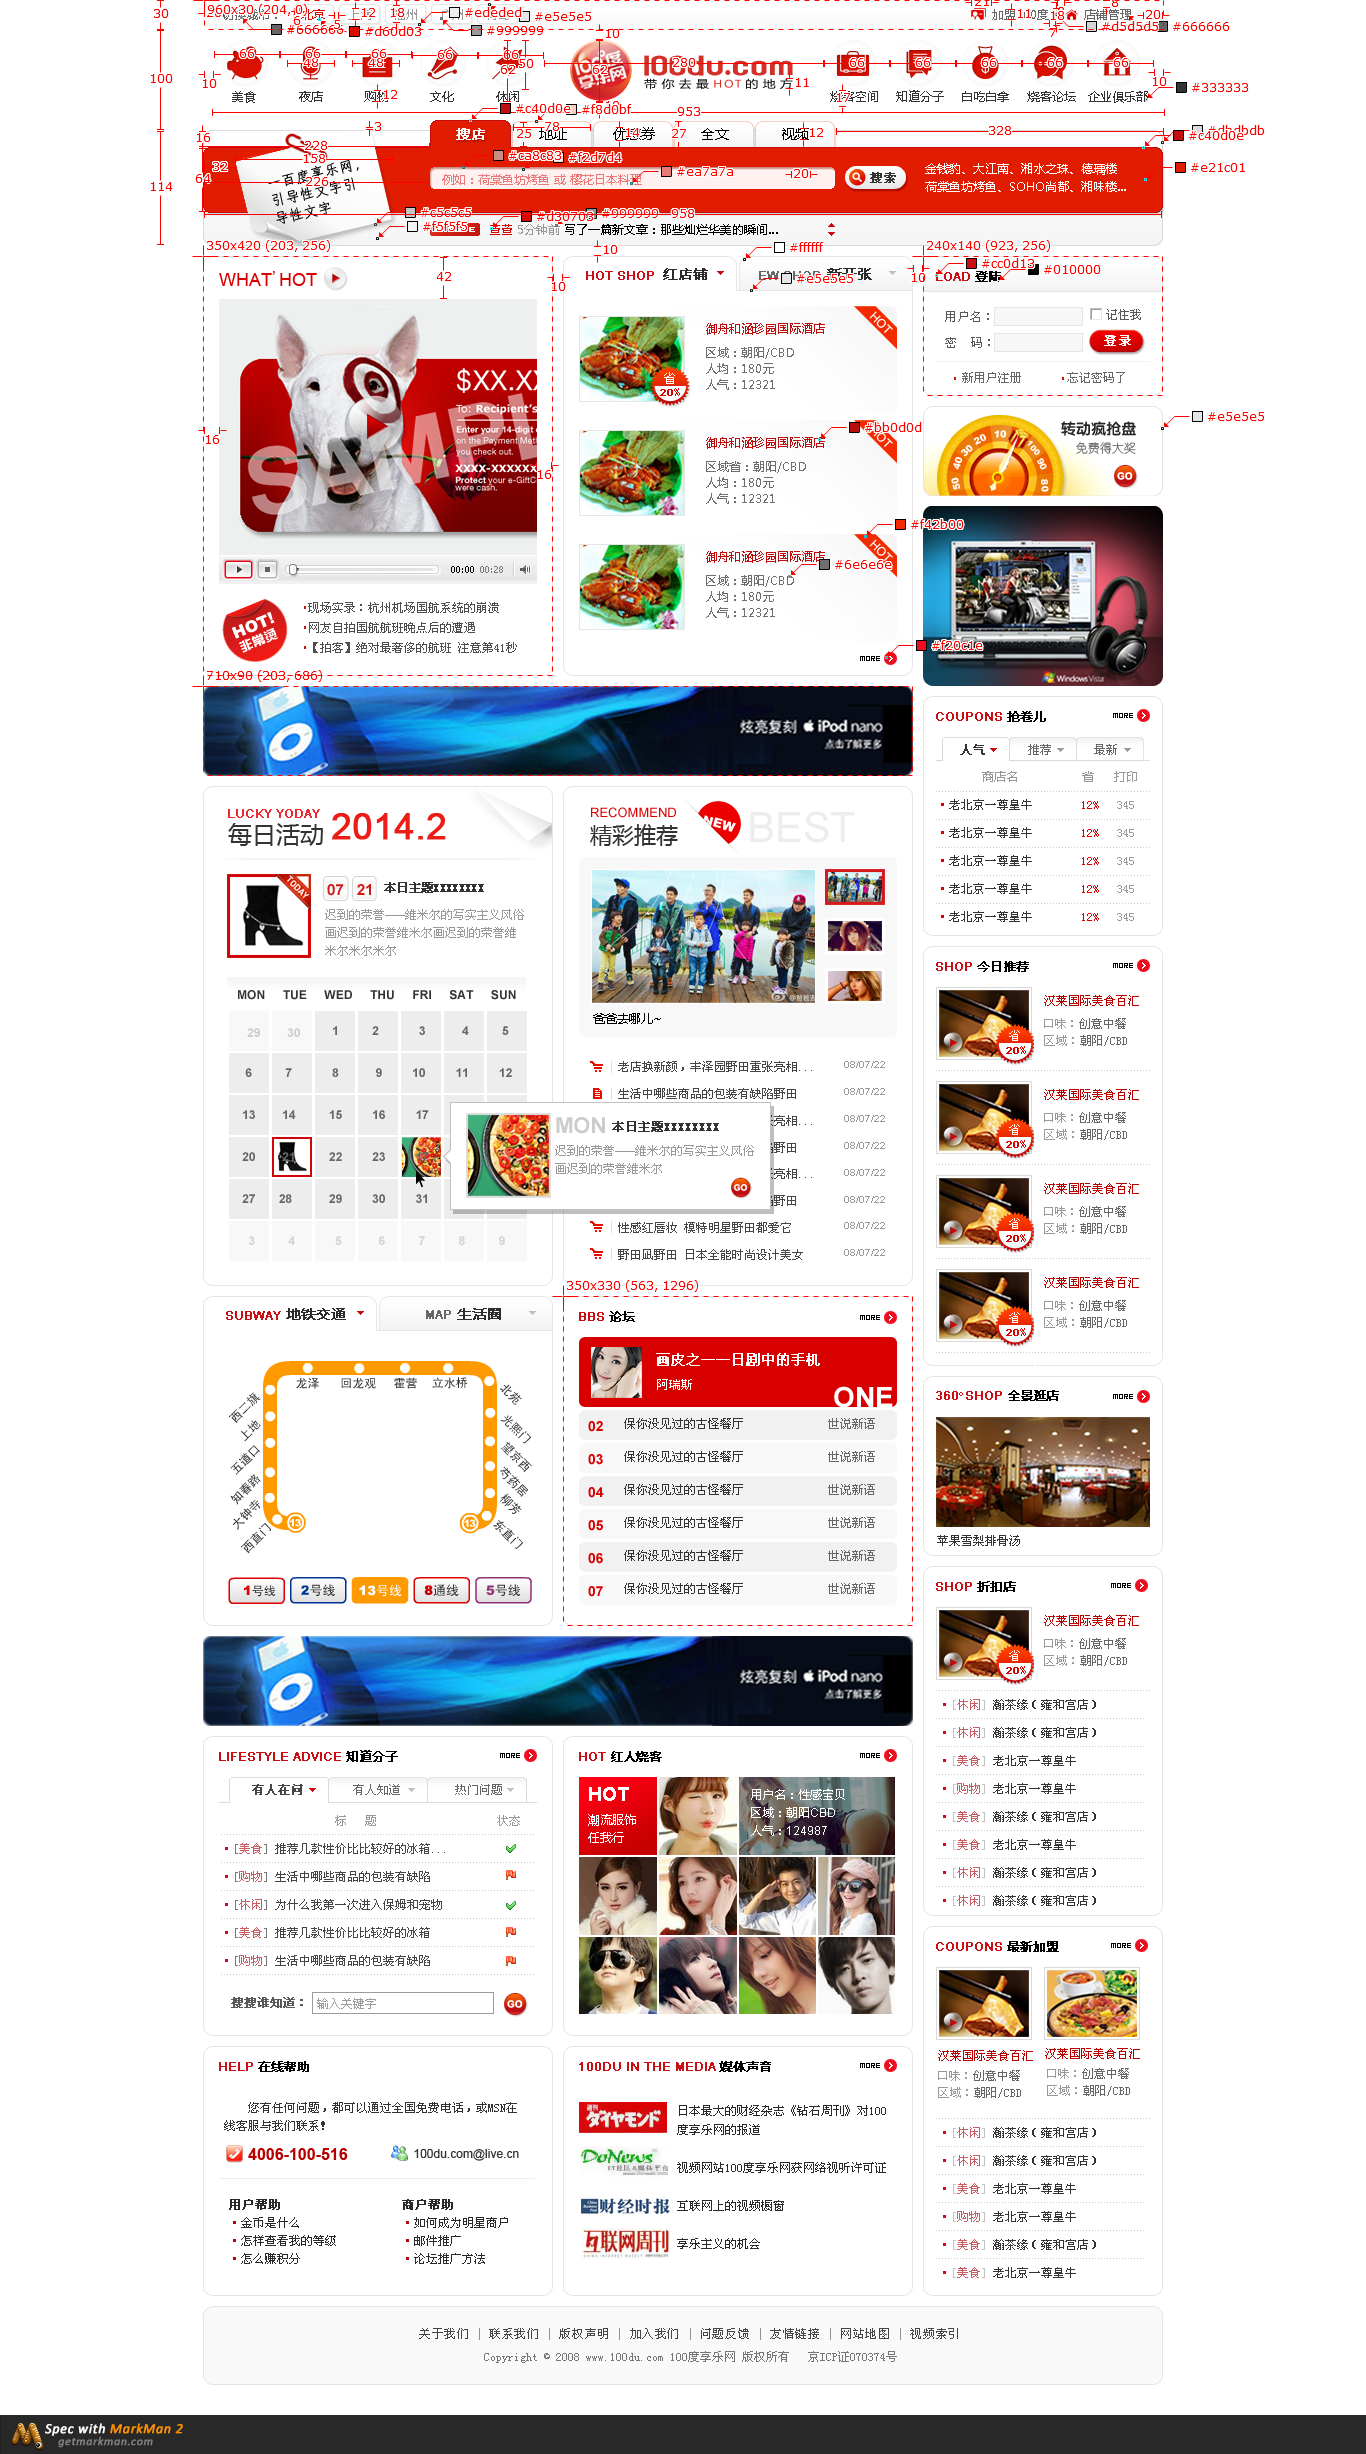
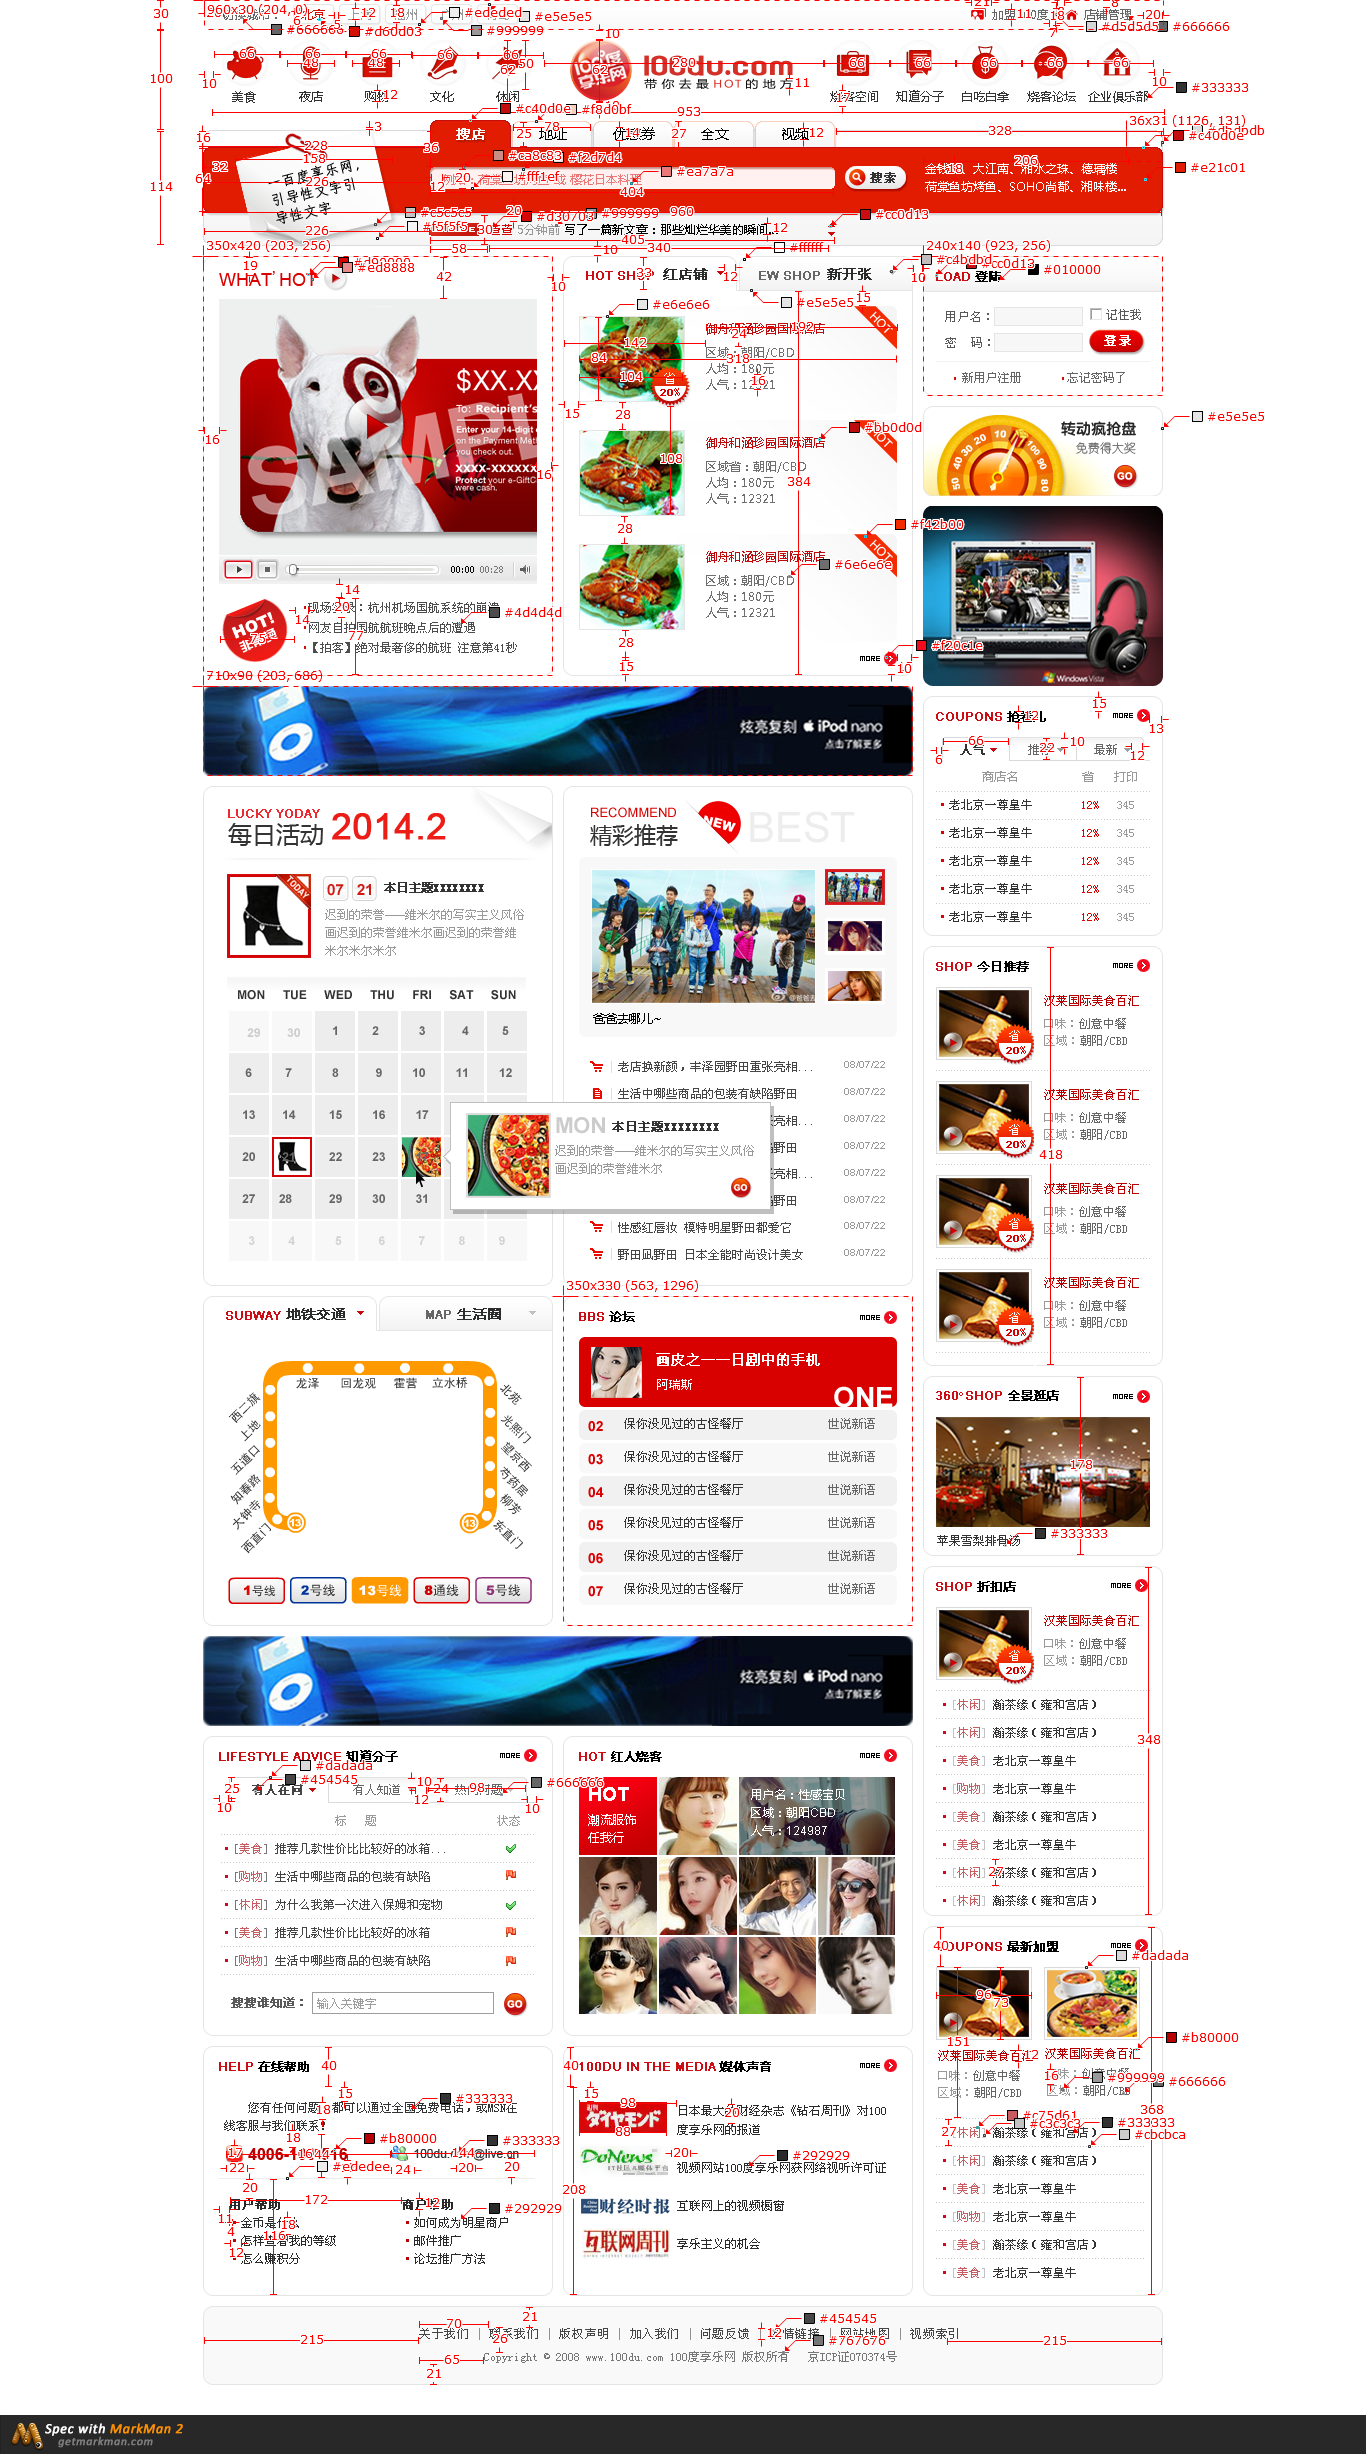
Module list_section over

diff --git a/css/100du_style.css b/css/100du_style.css
@@ -177,7 +177,7 @@ body{margin-bottom: 30px; }
 .main_title{height: 40px; line-height: 40px; font-family: arial; position: relative;}
 .main_title strong{color: #cc0d13;}
 .main_title strong span{color: #010000;}
-.main_title a{position: absolute; top: 15px; right: 0;}
+.main_title a{position: absolute; top: 15px; right: 12px;}
 .main_title sup{position: absolute; top: 7px;}
 /* Module_content_public_mainTitle End*/
 
@@ -186,7 +186,7 @@ body{margin-bottom: 30px; }
 
 /* Module tab */
 .tab{height: 25px; border-bottom: 1px solid #dadada;}
-.tab ul{height: 26px; margin-bottom: -1px; position: relative;}
+.tab ul{ margin-bottom: -1px; position: relative; }
 .tab li{float: left; position: relative; border: 1px solid #dadada; margin-right: -1px; border-radius:4px 4px 0 0; text-align: center; line-height: 24px; color: #666666; cursor: pointer;}
 .tab .active{border-bottom: 1px solid #fff; background: #fff; font-weight: bold; color: #454545;}
 .tab .triangle_gray,.tab .triangle_down{top: 10px; right: 12px;}
@@ -195,7 +195,7 @@ body{margin-bottom: 30px; }
 .section .tab li{width: 98px; height: 24px; }
 /* the second tab */
 .sider_section .tab{padding: 0 6px;}
-.sider_section .tab li{width: 66px; height: 22px;}
+.sider_section .tab li{width: 66px; height: 24px;}
 /* Module tab End */
 
 
@@ -247,14 +247,41 @@ body{margin-bottom: 30px; }
 .pic_list li .text a{color: #666666;}
 .pic_list li .text a:hover{color: red;}
 /* Mudule pic_list End */
+
 /* Mudule list_section */
 .list_section{}
-.list_section li{line-height: 27px; border: 1px dotted #cbcbca; border-left: none; border-right: none;}
+.list_section li{line-height: 27px; border-top: 1px dotted #cbcbca;  background:  url(../img/dot.gif) 6px center no-repeat;  }
 .list_section .last{border-bottom: none;}
-.list_section li a{color: #333333;}
+.list_section li a{display: inline-block; text-indent: 14px; color: #333333;}
 .list_section li em{color: #c3c3c3;}
-.list_section li span{color: #c75d61;}
+.list_section li span{ color: #c75d61;text-align: center;}
+
+
+.list_section .title{background: none; border-top: none;}
+.list_section .title span{color: #999999; }
+
+.sider_section .list_section .col1{ display: inline-block; width: 132px;}
+.sider_section .list_section .col1 a{ width: 132px; text-align: left;}
+.sider_section .list_section .col2{ display: inline-block; width: 33px; }
+.sider_section .list_section .col3{ display: inline-block; width: 32px; }
+
+
+.section .list_section .col1{ display: inline-block; width: 260px;}
+.section .list_section .col1 a{ width: 260px; text-align: left;}
+.section .list_section .col2{ display: inline-block; width: 30px; }
+.section .list_section .col2 img{ position: relative; bottom: 9px; }
+
 /* Mudule list_section End  */
+/* Mudule soso */
+.soso{height: 60px; border-top: 1px dotted #cbcbca;}
+.soso strong{width: 64px; float: left; margin-top: 17px;}
+.soso .text{width: 172px; height: 20px; padding: 0 4px; margin: 17px 10px 21px 10px; float: left; border: 1px solid #9c9c9c; color: #9c9c9c;}
+.soso .btn{width: 24px; height: 25px; float: left; margin-top: 17px;border: none; background:  url(../img/btn.gif) 0 0 no-repeat;}
+/* Mudule soso End*/
+
+/* Mudule wrap */
+
+.wrap_section1{padding-bottom: 5px;}
 
 .wrap_section2{height: 378px;} 
 .wrap_section2 .pic_list{}
@@ -271,16 +298,14 @@ body{margin-bottom: 30px; }
 .wrap_section3 .list_section{}
 
 /* Mudule sider_section4 */
-
 .wrap_section4{height: 328px;} 
 .wrap_section4 .pic_list{}
 .wrap_section4 .list_section{}
 .wrap_section4
 .wrap_section4
 .wrap_section4
-
 /* Mudule sider_section4 End */
-
+/* Mudule wrap End */
 /* Mudule footer */
 
 #footer a{width: 70px; display: inline-block; color: #454545; line-height: 26px; text-align: center;}

diff --git a/100.html b/100.html
@@ -200,6 +200,39 @@
 							<li class="gradient">热门问题<a href="javascript:;" class="triangle_gray"></a></li>
 						</ul>
 					</div>
+					<ul class="list_section">
+							<li  class="title">
+								<span class="col1">标题</span>
+								<span class="col2">状态</span>
+							</li>
+							<li>
+								<span class="col1"><a href="#"><em>[<span>美食</span>]</em>推荐几款性价比比较好的冰箱</a></span>
+								<span class="col2"><img src="img/ico1.gif" ></span>
+							</li>
+							<li>
+								<span class="col1"><a href="#"><em>[<span>购物</span>]</em>生活中哪些商品的包装有缺陷</a></span>
+								<span class="col2"><img src="img/ico2.gif" ></span>
+							</li>
+							<li>
+								<span class="col1"><a href="#"><em>[<span>美食</span>]</em>推荐几款性价比比较好的冰箱</a></span>
+								<span class="col2"><img src="img/ico1.gif" ></span>
+							</li>
+							<li>
+								<span class="col1"><a href="#"><em>[<span>购物</span>]</em>生活中哪些商品的包装有缺陷</a></span>
+								<span class="col2"><img src="img/ico2.gif" ></span>
+							</li>
+							<li>
+								<span class="col1"><a href="#"><em>[<span>购物</span>]</em>生活中哪些商品的包装有缺陷</a></span>
+								<span class="col2"><img src="img/ico2.gif" ></span>
+							</li>
+					</ul>
+					<div class="soso">
+						<from action="#">
+							<strong>搜搜谁知道:</strong>
+							<input class="text" type="text">
+							<input class="btn" type="submit" value="">
+						</from>
+					</div>
 				</div>
 				<div class="section fr">
 					<div class="main_title">
@@ -261,13 +294,47 @@
 								<strong>COUPONS <span>抢卷儿</span></strong>
 								<a href="#"><img src="img/more.gif" alt="更多" /></a>
 				</div>
-				<div class="tab">
-						<ul>
-							<li class="active">人气<a href="javascript:;" class="triangle_down"></a></li>
-							<li class="gradient">推荐<a href="javascript:;" class="triangle_gray"></a></li>
-							<li class="gradient">最新<a href="javascript:;" class="triangle_gray"></a></li>
-						</ul>
-					</div>
+				<div class="wrap_section1">
+					<div class="tab">
+							<ul>
+								<li class="active">人气<a href="javascript:;" class="triangle_down"></a></li>
+								<li class="gradient">推荐<a href="javascript:;" class="triangle_gray"></a></li>
+								<li class="gradient">最新<a href="javascript:;" class="triangle_gray"></a></li>
+							</ul>
+						</div>
+					<ul class="list_section">
+							<li  class="title">
+								<span class="col1">商店名</span>
+								<span class="col2">省</span>
+								<span class="col3">打印</span>
+							</li>
+							<li>
+								<span class="col1"><a href="#">老北京一尊皇牛</a></span>
+								<span class="col2">12%</span>
+								<span class="col3">345</span>
+							</li>
+							<li>
+								<span class="col1"><a href="#">老北京一尊皇牛</a></span>
+								<span class="col2">12%</span>
+								<span class="col3">345</span>
+							</li>
+							<li>
+								<span class="col1"><a href="#">老北京一尊皇牛</a></span>
+								<span class="col2">12%</span>
+								<span class="col3">345</span>
+							</li>
+							<li>
+								<span class="col1"><a href="#">老北京一尊皇牛</a></span>
+								<span class="col2">12%</span>
+								<span class="col3">345</span>
+							</li>
+							<li>
+								<span class="col1"><a href="#">老北京一尊皇牛</a></span>
+								<span class="col2">12%</span>
+								<span class="col3">345</span>
+							</li>
+					</ul>
+				</div>
 			</div>
 			<div class="sider_section">
 				<div class="main_title">
